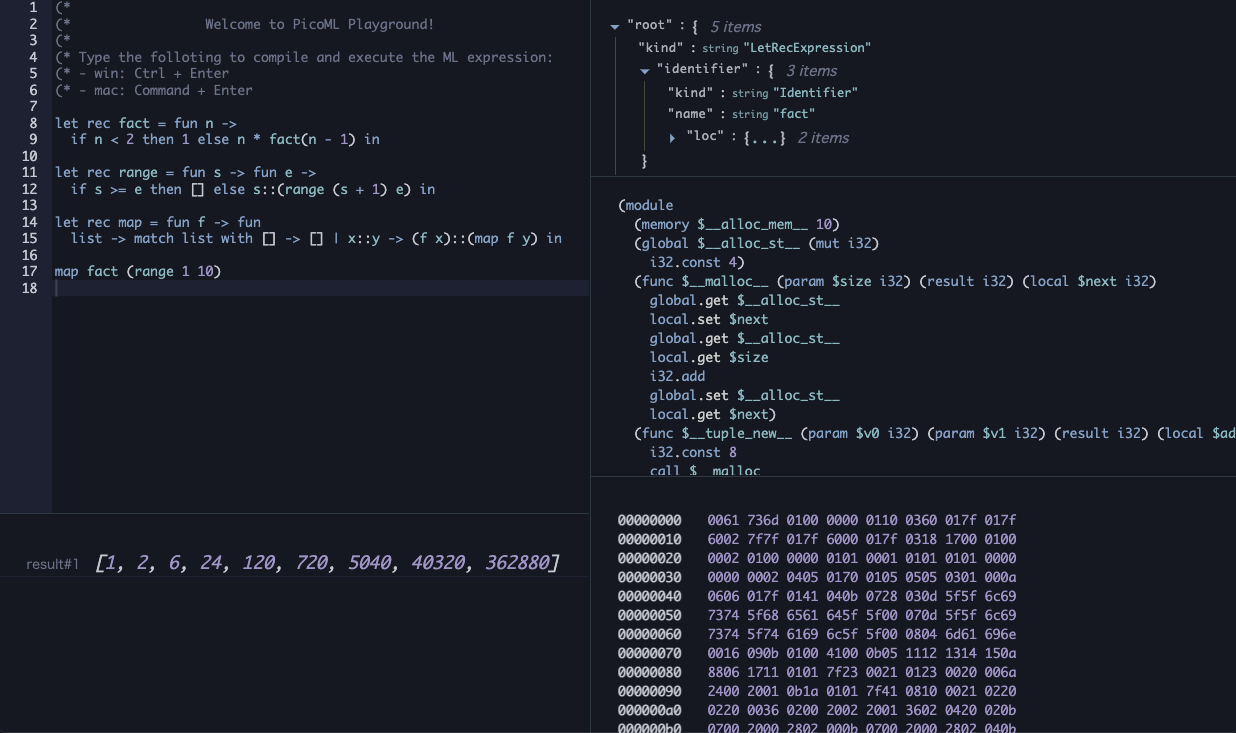
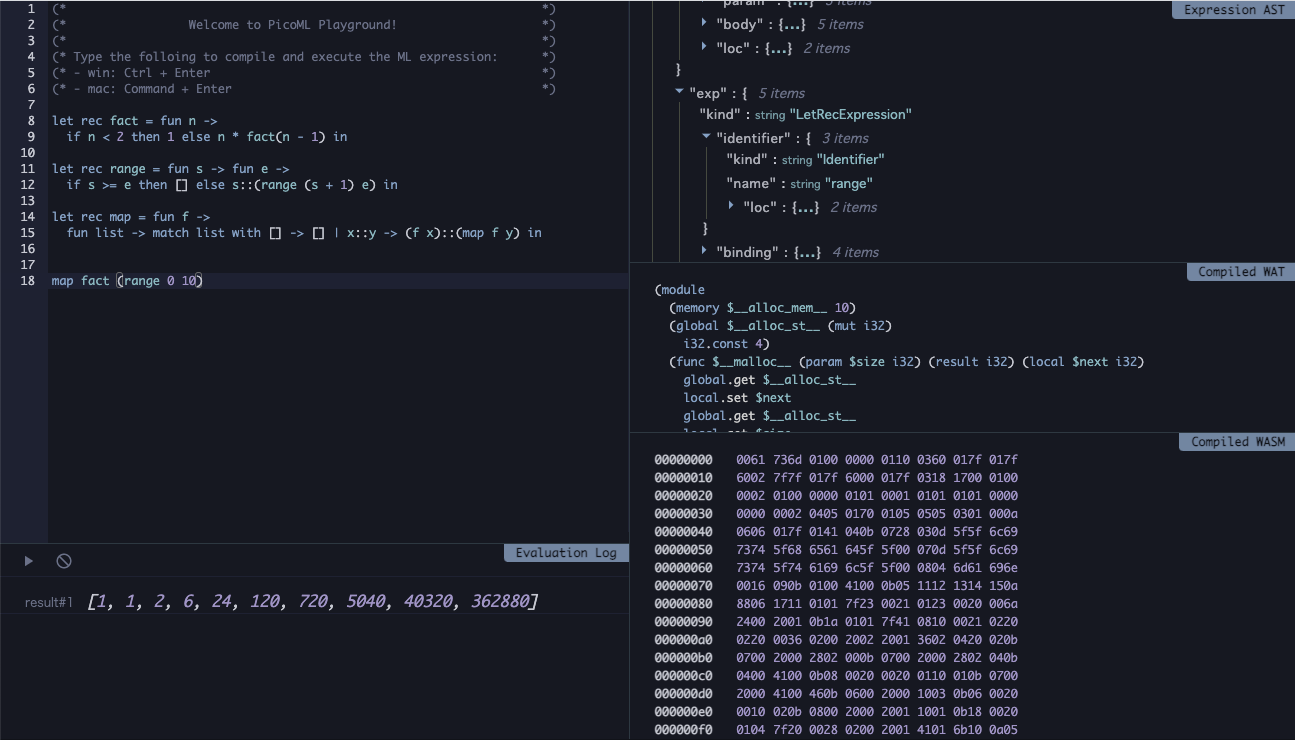
feat: Add footer

diff --git a/playground/src/components/app/index.tsx b/playground/src/components/app/index.tsx
@@ -23,8 +23,8 @@ if true then 1 + 2 * 3 else 0
 export function App() {
   return (
     <ProgramProvider initialContent={code.trim()}>
-      <SplitPane resizerClassName={styles.resizer} split="vertical" defaultSize="45%">
-        <SplitPane resizerClassName={styles.resizer} split="horizontal" defaultSize="70%">
+      <SplitPane resizerClassName={styles.resizer} split="vertical" defaultSize="43%">
+        <SplitPane resizerClassName={styles.resizer} split="horizontal" defaultSize="62%">
           <Pane>
             <Editor />
           </Pane>
@@ -32,11 +32,11 @@ export function App() {
             <EvaluatedLog />
           </Pane>
         </SplitPane>
-        <SplitPane resizerClassName={styles.resizer} split="horizontal" defaultSize="45%">
+        <SplitPane resizerClassName={styles.resizer} split="horizontal" defaultSize="38%">
           <Pane sectionName="Expression AST">
             <AstViewer />
           </Pane>
-          <SplitPane resizerClassName={styles.resizer} split="horizontal" defaultSize="65%">
+          <SplitPane resizerClassName={styles.resizer} split="horizontal" defaultSize="60%">
             <Pane sectionName="Compiled WAT">
               <WatViewer />
             </Pane>
@@ -46,6 +46,9 @@ export function App() {
           </SplitPane>
         </SplitPane>
       </SplitPane>
+      <footer className={styles.footer}>
+        Powered by <a href="https://github.com/Quramy/pico-ml">https://github.com/Quramy/pico-ml</a>
+      </footer>
     </ProgramProvider>
   );
 }

diff --git a/playground/src/components/app/index.css b/playground/src/components/app/index.css
@@ -48,3 +48,23 @@
 .resizer:global(.disabled):hover {
   border-color: transparent;
 }
+
+.footer {
+  z-index: 10;
+  position: fixed;
+  bottom: 0;
+  width: 100%;
+  text-align: center;
+  background: #111319;
+  padding: 24px 32px;
+  font-size: 0.8rem;
+}
+
+.footer a:link,
+.footer a:visited {
+  color: #89b8c2;
+}
+
+.footer a:hover {
+  opacity: 0.8;
+}

diff --git a/playground/src/components/app/index.css.d.ts b/playground/src/components/app/index.css.d.ts
@@ -1,4 +1,5 @@
 declare const styles: {
   readonly resizer: string;
+  readonly footer: string;
 };
 export = styles;
